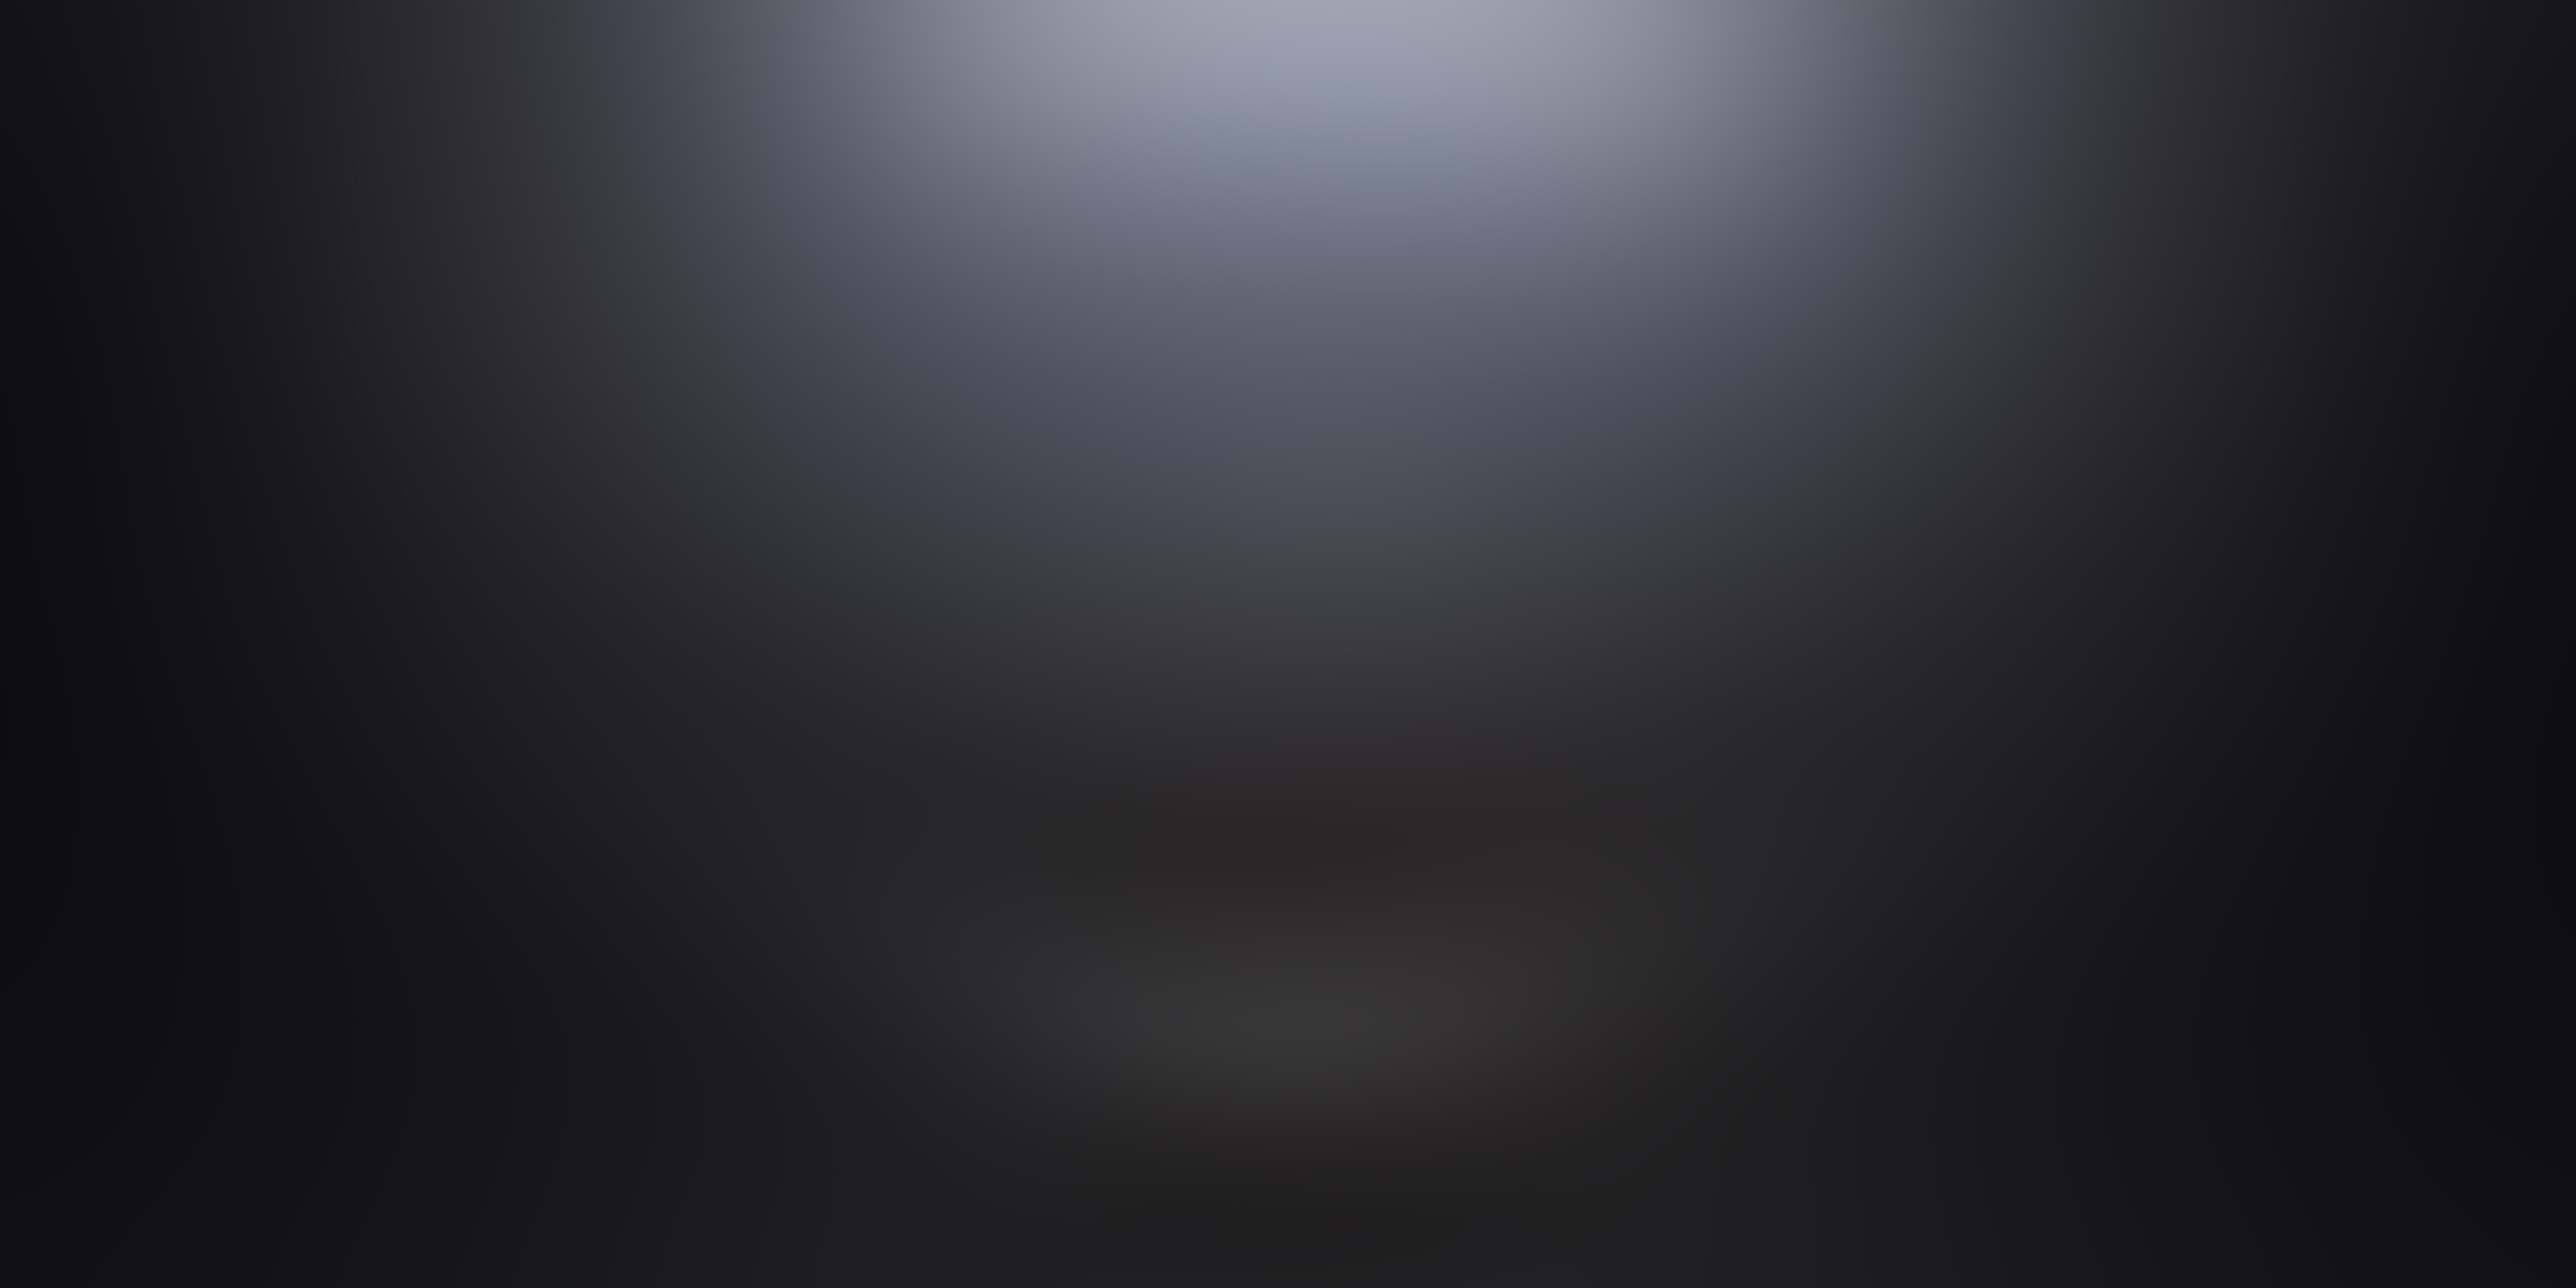
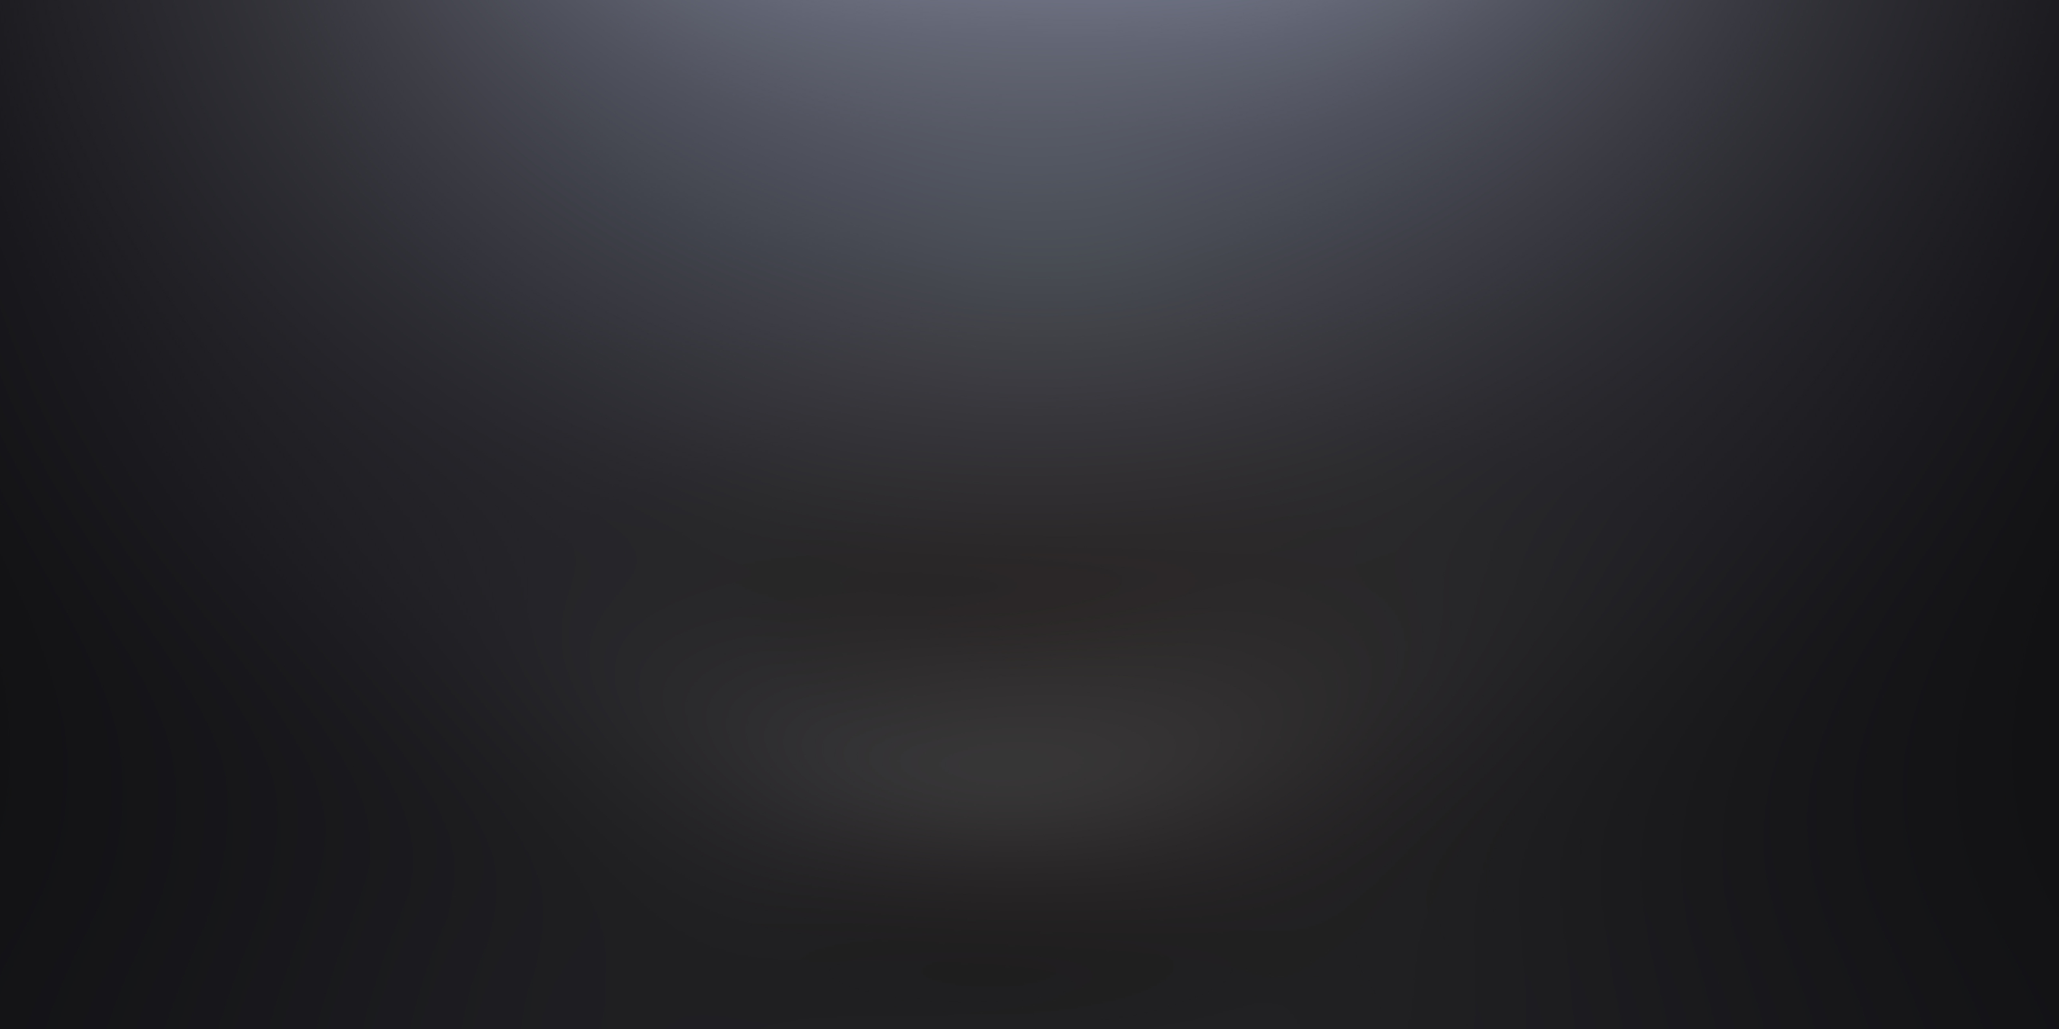
Add HeroSection image

Changed region(s): [[0.3423, 0.0, 0.7157, 0.4026]]

diff --git a/src/components/portfolio/HeroSection.tsx b/src/components/portfolio/HeroSection.tsx
@@ -1,16 +1,35 @@
+import Image from "next/image";
+
 export default function HeroSection() {
-    return (
-      <section className="min-h-screen flex flex-col items-center justify-center text-center px-4">
+  return (
+    <section className="relative min-h-screen flex flex-col items-center justify-center text-center px-4 overflow-hidden bg-black">
+      
+      {/* ✅ Background Image fills the section naturally */}
+      <Image
+        src="/blurred-background.jpg"
+        alt="blurred cosmic background"
+        fill
+        priority
+        sizes="100vw"
+        quality={100}
+        className="absolute z-0 w-full h-full brightness-135 contrast-150"
+      />
+
+      {/* Foreground Content */}
+      <div className="relative z-10 pt-24">
         <h1 className="text-5xl md:text-6xl font-bold mb-4">
           👋 Hey, I'm Javier Romo
         </h1>
-        <p className="max-w-2xl text-lg text-gray-300">
+        <p className="max-w-2xl text-lg text-gray-200">
           I craft stunning UIs & scalable APIs — blending creativity with code.
         </p>
-        <a href="#projects" className="mt-6 bg-white text-black px-6 py-3 rounded hover:opacity-80 transition">
+        <a
+          href="#projects"
+          className="mt-6 inline-block bg-white text-black px-6 py-3 rounded hover:opacity-80 transition"
+        >
           Explore Work
         </a>
-      </section>
-    );
-  }
-  
+      </div>
+    </section>
+  );
+}

diff --git a/src/pages/index.tsx b/src/pages/index.tsx
@@ -4,20 +4,10 @@ import TechStackSection from "@/components/portfolio/TechStackSection";
 import ContactSection from "@/components/portfolio/ContactSection";
 import PortfolioFooter from "@/components/portfolio/PortfolioFooter";
 import PortfolioNavbar from "@/components/portfolio/PortfolioNavbar";
-import Image from "next/image";
 
 export default function PortfolioHome() {
   return (
     <div className="relative min-h-screen text-white bg-black">
-      {/* Background */}
-      <Image
-        src="/blurred-background.jpg"
-        alt="Blurred Background"
-        fill
-        priority
-        className="fixed z-0 object-cover w-full h-full"
-      />
-
       <main className="relative z-10 space-y-32 scroll-smooth">
         <PortfolioNavbar />
         <HeroSection />

diff --git a/src/components/portfolio/ContactSection.tsx b/src/components/portfolio/ContactSection.tsx
@@ -2,7 +2,7 @@ import Link from "next/link";
 
 export default function ContactSection() {
   return (
-    <section className="w-full py-16 text-center px-6 bg-white/10 backdrop-blur">
+    <section id="contact" className="w-full py-16 text-center px-6 bg-white/10 backdrop-blur">
       <h2 className="text-4xl font-bold mb-4">📩 Let's Connect</h2>
       <p className="text-gray-300 mb-6">
         Got a project in mind or just want to chat? I'm available!
